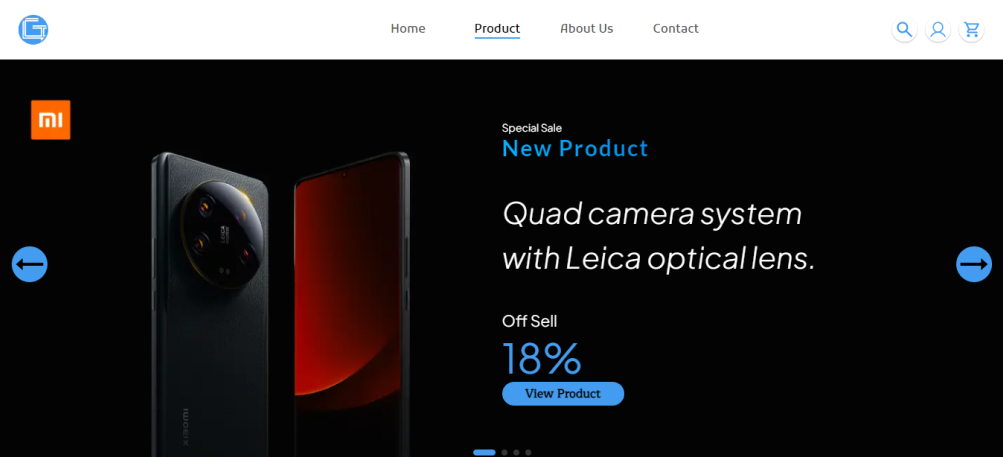
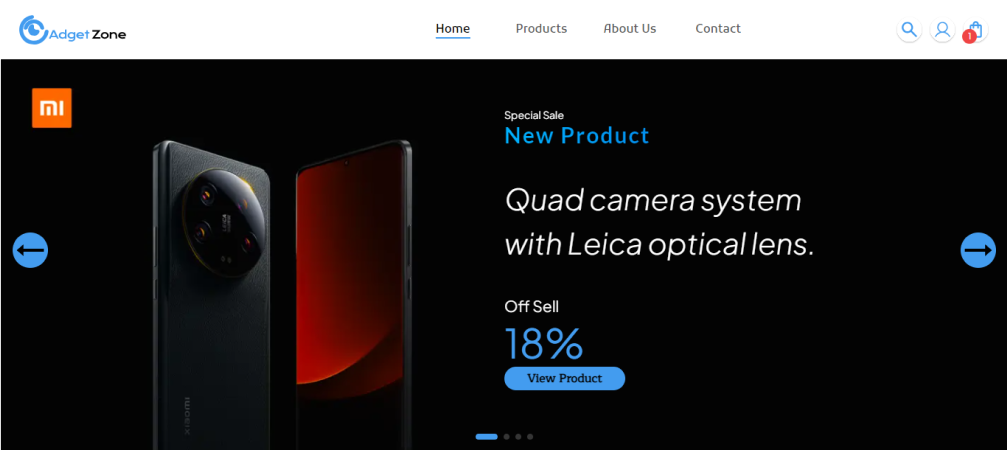
update project

diff --git a/data.js b/data.js
@@ -430,22 +430,29 @@ const dataProjects = [
     {
         id:6,
         nameProject:'Gadget Zone',
-        aboutProject:`MERN FullStack project, an e-commerce gadget themed website. I create a website that lasts like an online shop, I use the latest website technology such as nextJS, MongoDB and Tailwind CSS, I also create several features found in online stores in general such as shopping baskets, item discounts, filter item categories and many more, while learning this technology in more depth, maybe this website will be completed in quite a long time.`, 
+        aboutProject:`MERN FullStack project, an e-commerce gadget themed website. I create a website that lasts like an online shop, I use the latest website technology such as nextJS, MongoDB and Tailwind CSS, I also create several features found in online stores in general such as shopping baskets, item discounts, filter item categories and many more, while learning this technology in more depth, maybe this website will be completed in quite a long time.`,
+        noteProject:`At the moment I only use JSON for the product database, I also use Redux as state management to make it easier to organize products into shopping carts, and use TypeScript to make development easier while learning.`, 
         startProject: '11/October/2023',
         finishedProject: '--/--/----',
         imageProject: './images/project6.png',
         imageSeledtedProject: [
             './images/project6.png',  
+            './images/project6-image2.webp',    
+            './images/project6_video.mp4',    
+            './images/project6-image3.webp',    
+            './images/project6-image4.webp',    
         ],
         techUses:[ 
             './icons/nextJS-icon.svg',  
             './icons/tailwindcss-icon.svg',  
+            './icons/typescript-icon.svg',   
         ],
         toolsUses:[
             './icons/figma-icon.svg', 
             './icons/mongodb-icon.svg', 
             './icons/postman-icon.svg', 
             './icons/expressJS-icon.svg',  
+            './icons/redux-icon.svg',  
         ], 
         link: false, 
     },  

diff --git a/input.scss b/input.scss
@@ -980,41 +980,29 @@ header nav.active {
 }
 
 // slide button & pagination
-.projects-container .swiper-button-next:after, 
-.projects-container .swiper-button-prev:after{ 
-    // display: none;
-    content: "";
-
-    
-    width: 100%;
-    height: 100%;
-    position: absolute;
-    background-position: top;
-    background-size: cover;
-    background-repeat: no-repeat; 
-}
-
-
-.projects-container .swiper-button-prev:after{   
-    background-image: url(/icons/prev-btn.svg);
-}
-
-.projects-container .swiper-button-next:after{   
-    background-image: url(/icons/next-btn.svg);
-}
  
-.projects-container .swiper-button-next, 
-.projects-container .swiper-button-prev{  
-    height: 49.4px;  
+.swiper-button-next, 
+ .swiper-button-prev{  
  
-    @media screen and (max-width:1000px) {
-        height: 35px;
+
+    &::after{
+        color: $primary_color;
+        width: 100%;
+        height: auto;
+        font-size: 3.5rem;
+ 
+        @media screen and (max-width:1000px) {
+            font-size: 2rem;
+        }
+
+        @media screen and (max-width:600px) {
+            font-size: 1.6rem;
+        }
     }
 
-    @media screen and (max-width:600px) {
-        height: 25px;
-    }
+
 }
+
 
 .swiper-pagination-bullets, .swiper-pagination-bullets.swiper-pagination-horizontal, .swiper-pagination-custom, .swiper-pagination-fraction{ 
     bottom: 0;
@@ -1161,6 +1149,7 @@ header nav.active {
                 background-color: #FFFFFF03;
                 backdrop-filter: blur(41px);
 
+                video,
                 img {
                     width: 95%;
                     height: auto;

diff --git a/css/input.css b/css/input.css
@@ -821,39 +821,23 @@ header nav.active {
   width: 100%;
 }
 
-.projects-container .swiper-button-next:after,
-.projects-container .swiper-button-prev:after {
-  content: "";
+.swiper-button-next::after,
+.swiper-button-prev::after {
+  color: #A6F6FF;
   width: 100%;
-  height: 100%;
-  position: absolute;
-  background-position: top;
-  background-size: cover;
-  background-repeat: no-repeat;
-}
-
-.projects-container .swiper-button-prev:after {
-  background-image: url(/icons/prev-btn.svg);
-}
-
-.projects-container .swiper-button-next:after {
-  background-image: url(/icons/next-btn.svg);
-}
-
-.projects-container .swiper-button-next,
-.projects-container .swiper-button-prev {
-  height: 49.4px;
+  height: auto;
+  font-size: 3.5rem;
 }
 @media screen and (max-width: 1000px) {
-  .projects-container .swiper-button-next,
-  .projects-container .swiper-button-prev {
-    height: 35px;
+  .swiper-button-next::after,
+  .swiper-button-prev::after {
+    font-size: 2rem;
   }
 }
 @media screen and (max-width: 600px) {
-  .projects-container .swiper-button-next,
-  .projects-container .swiper-button-prev {
-    height: 25px;
+  .swiper-button-next::after,
+  .swiper-button-prev::after {
+    font-size: 1.6rem;
   }
 }
 
@@ -1017,6 +1001,7 @@ header nav.active {
   -webkit-backdrop-filter: blur(41px);
           backdrop-filter: blur(41px);
 }
+.project-details-container .image-project .project-image-container .image video,
 .project-details-container .image-project .project-image-container .image img {
   width: 95%;
   height: auto;

diff --git a/index.html b/index.html
@@ -413,16 +413,7 @@
             <div class="social-media">
               
                 <a href="https://www.linkedin.com/in/muh-ismail-mks/" target="_blank">
-                    <img src="/icons/linkedin-icon.svg" alt="">
-                </a>
-                <a href="#">
-                    <img src="/icons/facebook-icon.svg" alt="">
-                </a>
-                <a href="#">
-                    <img src="/icons/instargram-icon.svg" alt="">
-                </a>
-                <a href="#">
-                    <img src="/icons/twitter-icon.svg" alt="">
+                    <img src="./icons/linkedin-icon.svg" alt="">
                 </a>
             </div>
 
